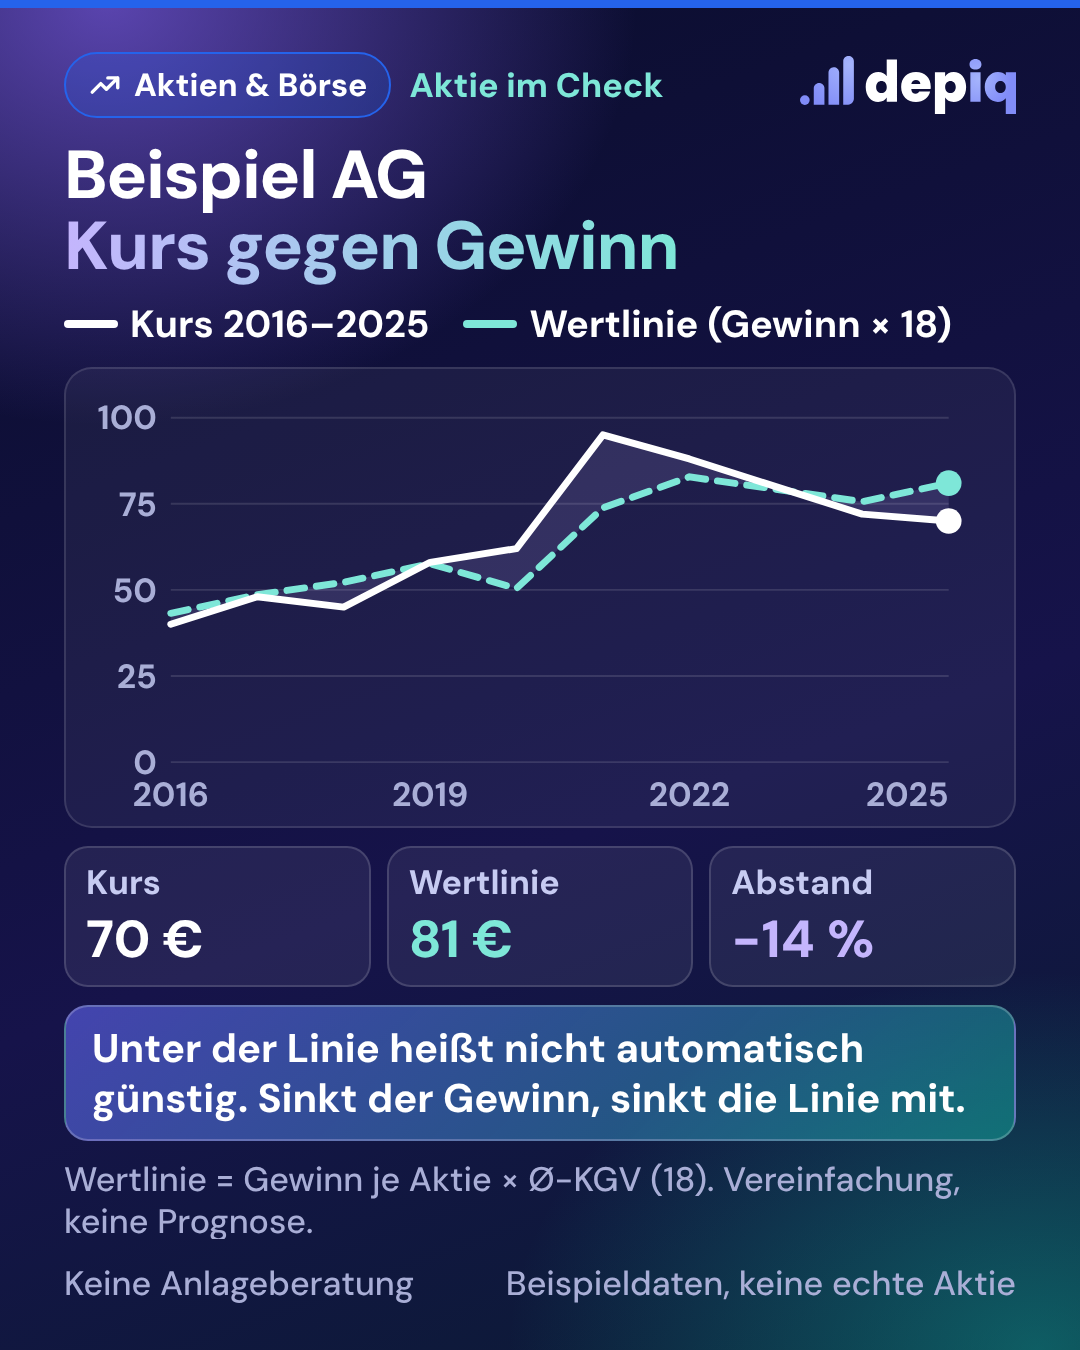
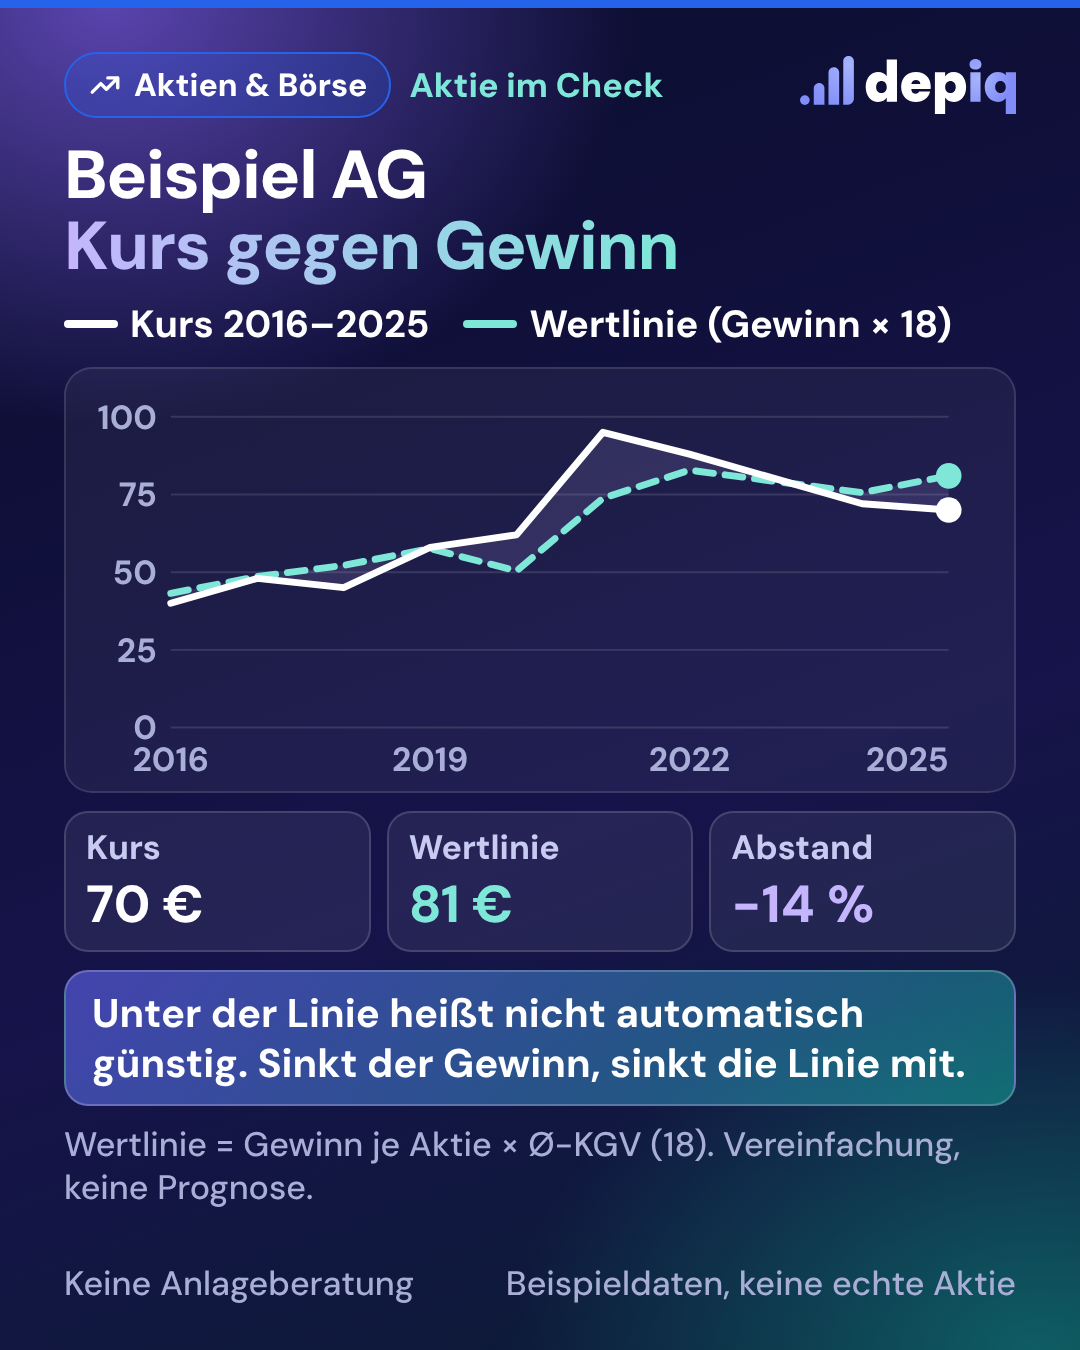
Wertlinie: Höhe angepasst, Hinweis in Aktie im Check
Claude-Session: https://claude.ai/code/session_016gPa7xp4YzhyP9kn3ZxsAs

Changed region(s): [[0.0611, 0.3111, 0.9472, 0.9333], [0.5806, 0.5289, 0.6722, 0.6222], [0.0917, 0.3422, 0.1528, 0.3733]]

diff --git a/vorlage/wertlinie.html b/vorlage/wertlinie.html
@@ -58,7 +58,7 @@ window.zeichne = d => {
   const kursHeute = d.kursHeute ?? d.kurs[n - 1], wertHeute = wert[n - 1];
   const abstand = (kursHeute / wertHeute - 1) * 100;
   // Diagramm
-  const W = 940, H = 440, L = 96, R = 56, O = 24, U = 58;
+  const W = 940, H = 405, L = 96, R = 56, O = 24, U = 58;
   const alle = d.kurs.concat(wert, [kursHeute]);
   const max = Math.max(...alle) * 1.08, min = 0;
   const x = i => L + i * (W - L - R) / (n - 1), y = v => O + (1 - (v - min) / (max - min)) * (H - O - U);

diff --git a/aktie-im-check/LIESMICH.md b/aktie-im-check/LIESMICH.md
@@ -22,3 +22,8 @@ Instagram- und Facebook-Karussell, TikTok-Fotostrecke (ohne Musik), YouTube Shor
 | 04.11.2026 | McDonald's | Zahlen 3. Quartal 2026 |
 | 05.11.2026 | Rheinmetall | Zahlen 3. Quartal 2026, Prognose gesenkt |
 | 06.11.2026 | Daimler Truck | Zahlen 3. Quartal 2026, Bestellungen unter Erwartung |
+
+## Baustein „Kurs gegen Gewinn“ (Entwurf 06.11.2026, noch nicht freigegeben)
+Ein Bild mit Kurs und einfacher Wertlinie (Gewinn je Aktie × Ø-KGV), passend als Seite 3 „Kennzahlen einfach erklärt“.
+`node vorlage/render-wertlinie.js <daten.json> <ziel>`; Beispiel: `aktie-im-check/vorlage-beispiel/wertlinie_beispiel.json`.
+Regeln: Jahresschlusskurse und Gewinne je Aktie aus zwei Quellen, Stand nennen, Linie endet beim letzten echten Jahr (keine Prognose), nie „Kauflimit“, „kaufenswert“, „Schnäppchen“, „Renditepotenzial“.
